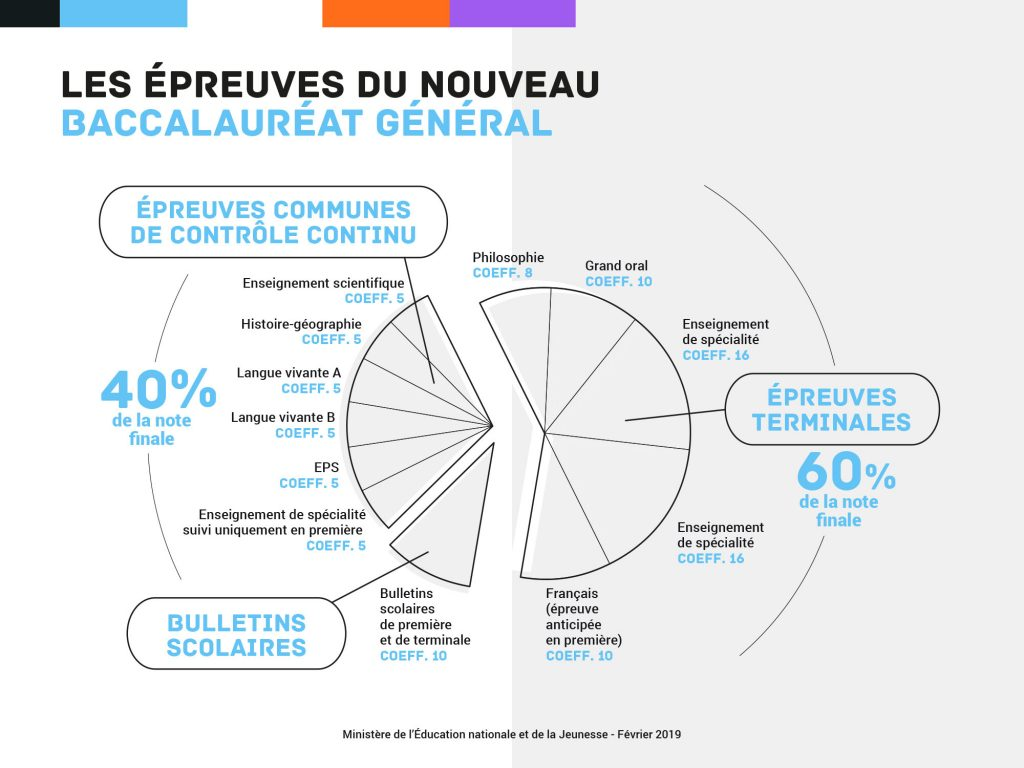
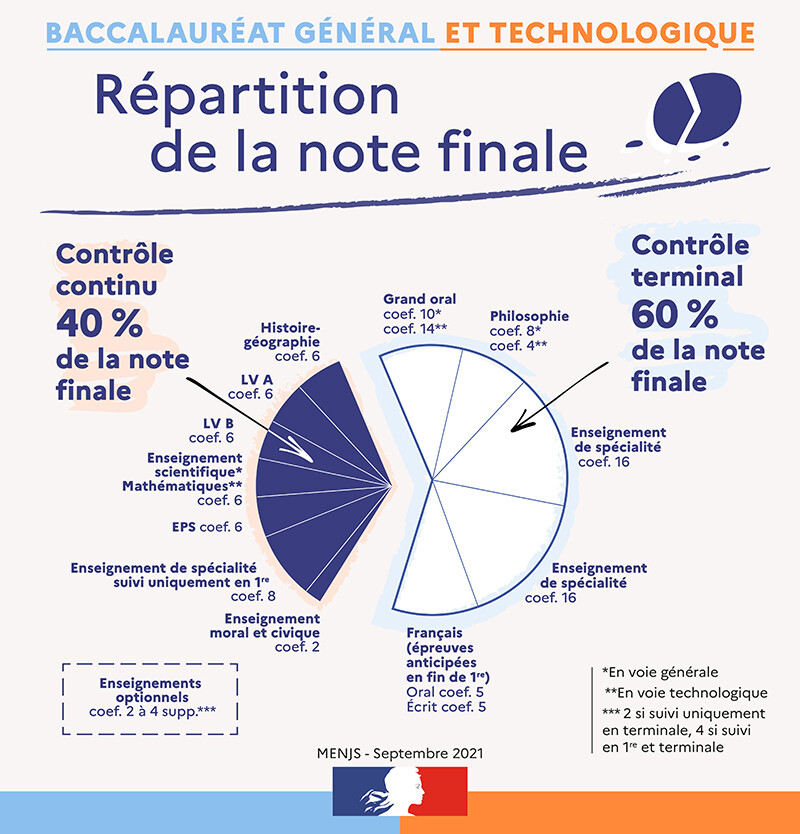
Mise à jour formulaire au BAC

diff --git a/formulairenotebac/bac.html b/formulairenotebac/bac.html
@@ -24,68 +24,48 @@
 				
 				<p>L'image ci-contre vous rappelle la répartition des coefficients de ces différentes épreuves.</p>
 			</div>
-			<img src="bac2021.jpg" alt="Bac 2021" />	
+			<img src="bac2027.jpg" alt="Bac 2027" />
 		</div>
 		
 		<form id="notes" name="formulaire">
 			<div id="premiere">
 				<h2>Première</h2>
-				<div class="bulletins">
-					<h3>Bulletins</h3>
-						<label>1<sup>er</sup> Trimestre : <input type="number" name="1t" min="0" max="20" step='0.5'></label>
-						<label>2<sup>ème</sup> Trimestre : <input type="number" name="2t" min="0" max="20" step='0.5'></label>
-						<label>3<sup>ème</sup> Trimestre : <input type="number" name="3t" min="0" max="20" step='0.5'></label>	
-						<p>Moyenne bulletins première :<span id="moy_bull"></span></p>
-				</div>
-				
-				<div class="e3c">
-					<h3>E3C</h3>
-						<h4>E3C 1</h4>
-						<label>Histoire-Géo. :<input type="number" name="hg_1" min="0" max="20" step='0.5'></label>
-						<label>LVA :<input type="number" name="lva_1" min="0" max="20" step='0.5'></label>
-						<label>LVB :<input type="number" name="lvb_1" min="0" max="20" step='0.5'></label>					
-					
-						<h4>E3C 2</h4>
-						<label>Histoire-Géo. :<input type="number" name="hg_2" min="0" max="20" step='0.5'></label>
-						<label>LVA :<input type="number" name="lva_2" min="0" max="20" step='0.5'></label>
-						<label>LVB :<input type="number" name="lvb_2" min="0" max="20" step='0.5'></label>	
-						<label>Enseignement Sci. :<input type="number" name="es_2" min="0" max="20" step='0.5'></label>
-						<label>Spécialité Première :<input type="number" name="spe_2" min="0" max="20" step='0.5'></label>				
+				<div class="continu">
+					<h3>Contrôle continu</h3>
+						<label>Histoire-Géo. :<input type="number" name="hg_1" min="0" max="20" step='0.1'></label>
+						<label>LVA :<input type="number" name="lva_1" min="0" max="20" step='0.1'></label>
+						<label>LVB :<input type="number" name="lvb_1" min="0" max="20" step='0.1'></label>
+						<label>Enseignement Sci. :<input type="number" name="es_1" min="0" max="20" step='0.1'></label>
+						<label>Spécialité Première :<input type="number" name="spe_3" min="0" max="20" step='0.1'></label>
+						<label>EMC :<input type="number" name="emc_1" min="0" max="20" step='0.1'></label>
 				</div>
 				<div class="e_t">
 					<h3>Épreuves terminales</h3>	
-					<label>Français écrit :<input type="number" name="fr_ecrit" min="0" max="20" step='0.5'></label>		
-					<label>Français oral :<input type="number" name="fr_oral" min="0" max="20" step='0.5'></label>
+					<label>Français écrit :<input type="number" name="fr_ecrit" min="0" max="20" step='1'></label>
+					<label>Français oral :<input type="number" name="fr_oral" min="0" max="20" step='1'></label>
+					<label>Mathématiques :<input type="number" name="math" min="0" max="20" step='1'></label>
 				</div>
 			</div>		
 			
 			<div id="terminale">
 				<h2>Terminale</h2>
-				<div class="bulletins">
-					<h3>Bulletins</h3>
-						<label>1<sup>er</sup> Trimestre : <input type="number" name="1t" min="0" max="20" step='0.5'></label>
-						<label>2<sup>ème</sup> Trimestre : <input type="number" name="2t" min="0" max="20" step='0.5'></label>
-						<label>3<sup>ème</sup> Trimestre : <input type="number" name="3t" min="0" max="20" step='0.5'></label>	
-						<p>Moyenne bulletins terminale :<span id="moy_bull_t"></span></p>
-				</div>
-				
-				<div class="e3c">
-					<h3>E3C</h3>
-					
-						<h4>E3C 3</h4>
-						<label>Histoire-Géo. :<input type="number" name="hg_3" min="0" max="20" step='0.5'></label>
-						<label>LVA :<input type="number" name="lva_3" min="0" max="20" step='0.5'></label>
-						<label>LVB :<input type="number" name="lvb_3" min="0" max="20" step='0.5'></label>	
-						<label>Enseignement Sci. :<input type="number" name="es_3" min="0" max="20" step='0.5'></label>
-						<label>EPS :<input type="number" name="eps_3" min="0" max="20" step='0.5'></label>				
+
+				<div class="continu">
+					<h3>Contrôle continu</h3>
+						<label>Histoire-Géo. :<input type="number" name="hg_t" min="0" max="20" step='0.1'></label>
+						<label>LVA :<input type="number" name="lva_t" min="0" max="20" step='0.1'></label>
+						<label>LVB :<input type="number" name="lvb_t" min="0" max="20" step='0.1'></label>
+						<label>Enseignement Sci. :<input type="number" name="es_t" min="0" max="20" step='0.1'></label>
+						<label>EPS :<input type="number" name="eps" min="0" max="20" step='0.1'></label>
+						<label>EMC :<input type="number" name="emc_t" min="0" max="20" step='0.1vertical-align: middle;'></label>
 					
 				</div>
 				<div class="e_t">
 					<h3>Épreuves terminales</h3>	
-					<label>Philo :<input type="number" name="philo" min="0" max="20" step='0.5'></label>		
-					<label>Spécialité 1 :<input type="number" name="spe1" min="0" max="20" step='0.5'></label>
-					<label>Spécialité 2 :<input type="number" name="spe2" min="0" max="20" step='0.5'></label>
-					<label>Grand oral :<input type="number" name="gd_oral" min="0" max="20" step='0.5'></label>
+					<label>Philo :<input type="number" name="philo" min="0" max="20" step='1'></label>
+					<label>Spécialité 1 :<input type="number" name="spe1" min="0" max="20" step='1'></label>
+					<label>Spécialité 2 :<input type="number" name="spe2" min="0" max="20" step='1'></label>
+					<label>Grand oral :<input type="number" name="gd_oral" min="0" max="20" step='1'></label>
 				</div>
 			</div>
 		</form>
@@ -98,7 +78,7 @@
 		</div>
 		
 			
-		<script type="text/javascript" src="script.js"></script>
+		<script type="text/javascript" src="script_final.js"></script>
 	</body>
 
 </html>

diff --git a/formulairenotebac/script_final.js b/formulairenotebac/script_final.js
@@ -5,34 +5,29 @@ function calcul(){
 		let formulaire = document.getElementById("notes"); // "notes" est l'id du formulaire
 		let elmts = formulaire.elements; //"elmts" contient le tableau des éléments de formulaire
 				
-		let t1 = parseFloat(elmts[0].value); // on stocke dans 3 variables la valeur entrée dans les éléments 0, 1 et 2 du formulaire...
-		let t2 = parseFloat(elmts[1].value); // ...en pensant à les transtyper en nombres flottants !
-		let t3 = parseFloat(elmts[2].value);
+		let hg_1 = parseFloat(elmts[0].value); // on stocke dans 16 variables la valeur entrée dans les éléments 0, 1,... 15 du formulaire...
+		let lva_1 = parseFloat(elmts[1].value); // ...en pensant à les transtyper en nombres flottants !
+		let lvb_1 = parseFloat(elmts[2].value);
+		let es_1 = parseFloat(elmts[3].value);
+		let spe3 = parseFloat(elmts[4].value);
+		let emc_1 = parseFloat(elmts[5].value);
+		let fr_ecrit = parseFloat(elmts[6].value);
+		let fr_oral = parseFloat(elmts[7].value);
+		let maths = parseFloat(elmts[8].value);
+		let hg_t = parseFloat(elmts[9].value);
+		let lva_t = parseFloat(elmts[10].value);
+		let lvb_t = parseFloat(elmts[11].value);
+		let es_t = parseFloat(elmts[12].value);
+		let eps = parseFloat(elmts[13].value);
+		let emc_t = parseFloat(elmts[14].value);
+		let philo = parseFloat(elmts[15].value);
+		let spe1 = parseFloat(elmts[16].value);
+		let spe2 = parseFloat(elmts[17].value);
+		let gd_oral = parseFloat(elmts[18].value);
 		
-		let moyenne = (t1 + t2 + t3)/3; // calcul de la moyenne
-		
-		let elmt = document.getElementById('moy_bull');	// sélection de la balise "span", d'id = "moy_bull", où l'on va afficher la moyenne
-		
-		elmt.innerHTML = Math.round(100*moyenne)/100; // modification du texte				
-		t1 = parseFloat(elmts[13].value); // on peut "réutiliser" les variables précédentes, leur contenu ne nous intéresse plus...
-		t2 = parseFloat(elmts[14].value);
-		t3 = parseFloat(elmts[15].value);
-		
-		let moyenne_t = (t1 + t2 + t3)/3; // par contre il faut donner un autre nom à la nouvelle variable moyenne : on aura besoin des deux moyennes par la suite !
-		
-		elmt = document.getElementById('moy_bull_t');	// attention, il faut avoir donné un autre id à la balise "span" de la section de Terminale pour la différencier de la première !!
-		elmt.innerHTML = Math.round(100*moyenne_t)/100;	
-		
-		let moy_e3c_1 = 1.25*(parseFloat(elmts[3].value) +parseFloat(elmts[4].value) +parseFloat(elmts[5].value) +parseFloat(elmts[6].value) +parseFloat(elmts[7].value) +parseFloat(elmts[8].value))+2.5*parseFloat(elmts[9].value) + 5*parseFloat(elmts[10].value)  ;
-		let franc = 5*(parseFloat(elmts[11].value) + parseFloat(elmts[12].value));
-		let moy_e3c_t = 2.5*(parseFloat(elmts[16].value) +parseFloat(elmts[17].value) +parseFloat(elmts[18].value) +parseFloat(elmts[19].value)) + 5*parseFloat(elmts[20].value) ;
-		let philo = 8*parseFloat(elmts[21].value) ;
-		let spe = 16*(parseFloat(elmts[22].value)+ parseFloat(elmts[23].value));
-		let gd_oral = 10*parseFloat(elmts[24].value);
-		
-		let note_bac = ( moyenne*5 + moyenne_t*5 + moy_e3c_1 + moy_e3c_t + franc + spe + gd_oral	+ philo) / 100;
+		let moyenne = (hg_1*3+lva_1*3+lvb_1*3+es_1*3+spe3*8+emc_1*1+fr_ecrit*5+fr_oral*5+maths*2+hg_t*3+lva_t*3+lvb_t*3+es_t*3+eps*6+emc_t*1+philo*8+spe1*16+spe2*16+gd_oral*8)/100; // calcul de la moyenne
 		
 		elmt = document.getElementById("note_finale"); // sélection de l'élément "note_finale"
-		elmt.innerHTML = Math.round(100*note_bac)/100; // affectation du contenu texte	
+		elmt.innerHTML = Math.round(100*moyenne)/100; // affectation du contenu texte
 }
 

diff --git a/formulairenotebac/style.css b/formulairenotebac/style.css
@@ -14,14 +14,15 @@ body {
 }
 
 #general img{
-	width: 500px;
+	width: 700px;
+	padding:2em;
 }
 
 #general .texte{
 	padding:2em;
 }
 
-.bulletins, .e3c, .e_t{
+.continu, .e_t{
 	display: flex;
 	flex-direction: column;
 	margin: 0.5em 0;
@@ -30,11 +31,7 @@ body {
 	border-radius: 1em;
 }
 
-.bulletins {
-	background-color: #ffe0e0;
-}
-
-.e3c {
+.continu {
 	background-color: #e0ffe0;
 }
 

diff --git a/2026_calendar.py b/2026_calendar.py
@@ -1,0 +1,11 @@
+import calendar
+def glass(text):
+    lines = text.splitlines()
+    w = max(len(l) for l in lines)
+    print("-"*(w+4))
+    for l in lines:
+        print("| "+l.ljust(w)+" |")
+    print("-"*(w+4))
+
+for m in range(1,13):
+    glass(calendar.month(2026,m))
